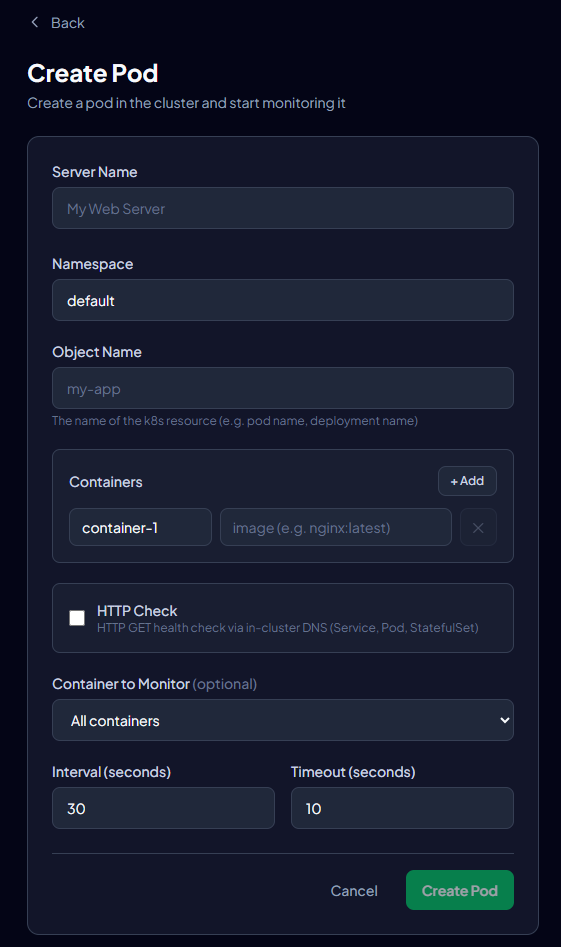
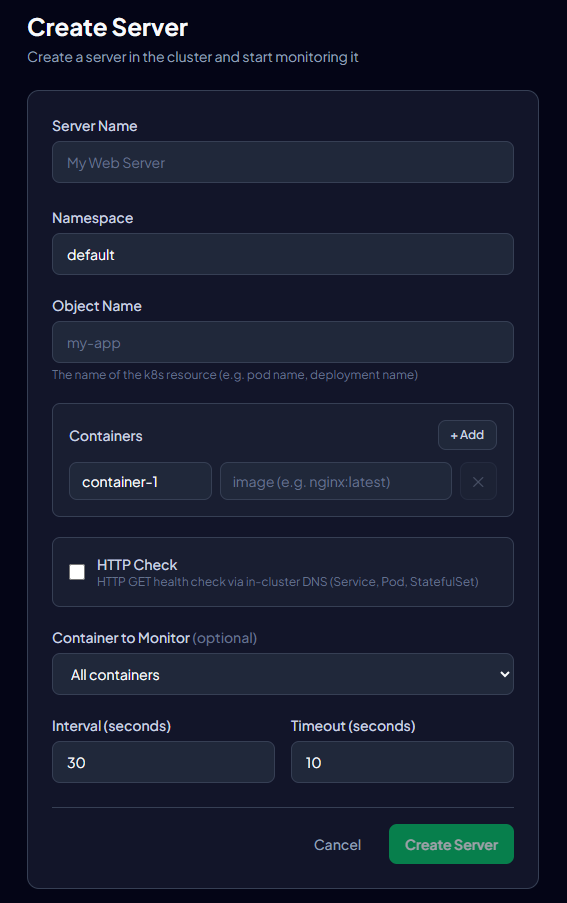
docs: rename pod to server on slides, move GoTrue into microservices, add Temporal to architecture SVG

diff --git a/src/lib/slides/architecture.js b/src/lib/slides/architecture.js
@@ -15,7 +15,7 @@ export const architecture = [
       { icon: 'Re', name: 'Valkey (Redis)', desc: 'ZSET scheduler + cache + CDC stream transport' },
       { icon: 'Te', name: 'Temporal', desc: 'Workflow engine (SendReport digest, chỉ notification-service dùng)' },
       { icon: 'GT', name: 'GoTrue', desc: 'Auth tập trung chuẩn OIDC: signup/login/refresh/logout, JWT ES256, user_id = UUID sub' },
-      { icon: 'k8', name: 'Kubernetes', desc: 'Chạy toàn bộ service trên nền Talos Linux (immutable, không SSH); ping-service truy vấn pod/container status qua client-go' },
+      { icon: 'k8', name: 'Kubernetes', desc: 'Chạy toàn bộ service trên nền Talos Linux (immutable, không SSH); ping-service truy vấn server/container status qua client-go' },
       { icon: 'Ci', name: 'Cilium', desc: 'API Gateway (Envoy, Gateway API) theo HTTPRoute + Network Policy bảo vệ giao tiếp giữa service' },
     ],
   },
@@ -26,7 +26,7 @@ export const architecture = [
     cards: [
       { icon: '🔐', title: 'GoTrue', desc: 'Auth tập trung: đăng ký/đăng nhập email, cấp JWT, OIDC discovery' },
       { icon: '🖥', title: 'server-service', desc: 'CRUD server theo k8s identity, kiểm tra quyền sở hữu' },
-      { icon: '📡', title: 'ping-service', desc: 'Check trạng thái pod/container qua client-go, điều độ ZSET' },
+      { icon: '📡', title: 'ping-service', desc: 'Check trạng thái server/container qua client-go, điều độ ZSET' },
       { icon: '📊', title: 'ontime-service', desc: 'Lưu lịch sử event, tính uptime %, quản lý user–server nội bộ' },
       { icon: '📧', title: 'notification-service', desc: 'Lên lịch & tổng hợp báo cáo, gửi mail qua Temporal' },
       { icon: '📥', title: 'importer-service', desc: 'Import/export hàng loạt server từ CSV/Excel' },
@@ -76,7 +76,7 @@ export const architecture = [
       NOT -->|gRPC GetServersOntime| ONT
 
       PING -->|ZSET claim| Redis[(Valkey / Redis)]
-      PING -->|client-go query pod status| K8S[(Kubernetes API)]
+      PING -->|client-go query server status| K8S[(Kubernetes API)]
 
       PG -->|logical WAL| DEB[Debezium]
       DEB -->|Redis Stream servers| Redis

diff --git a/src/lib/slides/features.js b/src/lib/slides/features.js
@@ -13,7 +13,7 @@ export const features = [
       title: 'CRUD Server',
       items: [
         'Tạo, xem, sửa, xóa server bằng k8s identity (namespace, kind, object_id, container_name)',
-        'Test-server: truy vấn pod/container status qua k8s API trước khi lưu',
+        'Test-server: truy vấn server/container status qua k8s API trước khi lưu',
         'Import hàng loạt từ CSV/Excel, kết quả theo từng dòng (row-level)',
       ],
     },
@@ -30,14 +30,14 @@ export const features = [
   {
     id: 'ss-create',
     type: 'screenshot',
-    title: 'Tạo Pod & Cấu hình Check',
-    caption: 'Form tạo pod: k8s identity (namespace, kind, object), interval, timeout, container',
+    title: 'Tạo Server & Cấu hình Check',
+    caption: 'Form tạo server: k8s identity (namespace, kind, object), interval, timeout, container',
     src: 'assets/screenshots/create-pod.png',
   },
   {
     id: 'flow-create',
     type: 'diagram',
-    title: 'Tạo Pod & Cấu hình Check — Sequence',
+    title: 'Tạo Server & Cấu hình Check — Sequence',
     diagram: `sequenceDiagram
       autonumber
       actor User
@@ -53,10 +53,10 @@ export const features = [
       User->>GW: POST /api/v1/k8s-objects (JWT)
       GW->>SRV: reverse proxy
       SRV->>SRV: verify JWT (GoTrue OIDC)
-      SRV->>K8S: EnsureNamespace + CreatePod
-      K8S-->>SRV: pod created
+      SRV->>K8S: EnsureNamespace + CreateServer
+      K8S-->>SRV: server created
       SRV->>DB: INSERT servers + server_http_configs (txn)
-      SRV-->>User: ServerObject (pod + check config)
+      SRV-->>User: ServerObject (server + check config)
       DB->>DEB: logical WAL
       DEB->>Redis: uptime.public.servers
       Redis-->>PING: ServerEventHandler
@@ -68,7 +68,7 @@ export const features = [
     id: 'ss-detail',
     type: 'screenshot',
     title: 'Server Detail & Uptime',
-    caption: 'Chi tiết server: k8s identity, trạng thái pod, uptime chart 30 ngày',
+    caption: 'Chi tiết server: k8s identity, trạng thái server, uptime chart 30 ngày',
     src: 'assets/screenshots/server-detail.png',
   },
   {

diff --git a/src/lib/slides/intro.js b/src/lib/slides/intro.js
@@ -33,7 +33,7 @@ export const intro = [
       'Đăng ký / Đăng nhập tài khoản bằng email (GoTrue)',
       'Quản lý server (CRUD)',
       'Giám sát server theo k8s identity (namespace, kind, object_id)',
-      'Kiểm tra trạng thái pod/container tự động theo lịch (interval cấu hình được)',
+      'Kiểm tra trạng thái server/container tự động theo lịch (interval cấu hình được)',
       'Xem tỉ lệ uptime theo ngày/khoảng thời gian',
       'Tìm kiếm server full-text',
       'Xuất / Nhập danh sách server từ Excel',

diff --git a/src/lib/slides/scheduling.js b/src/lib/slides/scheduling.js
@@ -176,7 +176,7 @@ export const scheduling = [
         W1->>Lua: Load task info
         Lua-->>W1: server, namespace, kind, object_id
         Note over W1: offset = FNV-1a(id) % interval
-        W1->>K8S: client-go get pod/container status
+        W1->>K8S: client-go get server/container status
         K8S-->>W1: running (bool) / readiness
         W1->>Lua: Reschedule: key = now + interval
         W1->>Stream: Update status cache

diff --git a/src/lib/slides/deployment.js b/src/lib/slides/deployment.js
@@ -38,7 +38,7 @@ export const deployment = [
       {
         icon: '☸',
         title: 'K8s Client (client-go)',
-        desc: 'ping-service truy vấn pod/container status; RBAC ServiceAccount (pods/get, deployments/get, statefulsets/get...)',
+        desc: 'ping-service truy vấn server/container status; RBAC ServiceAccount (servers/get, deployments/get, statefulsets/get...)',
       },
     ],
   },
